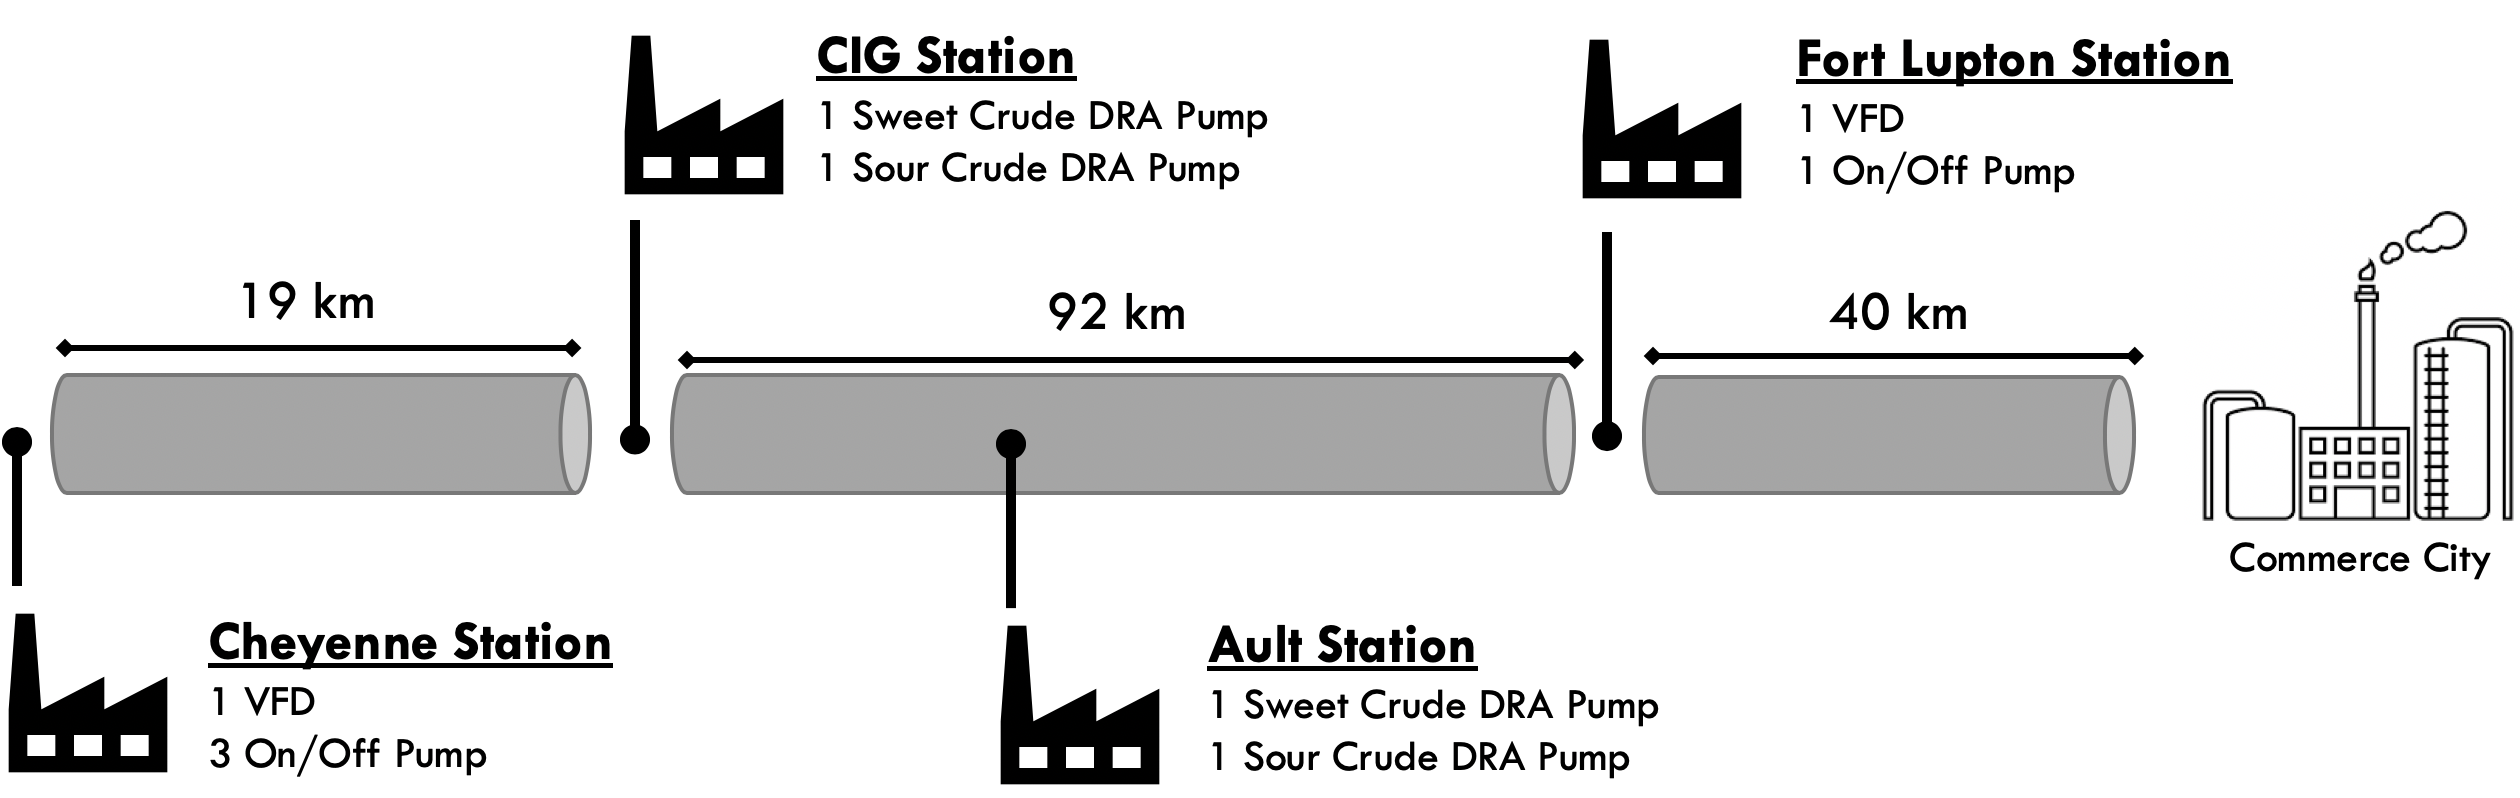
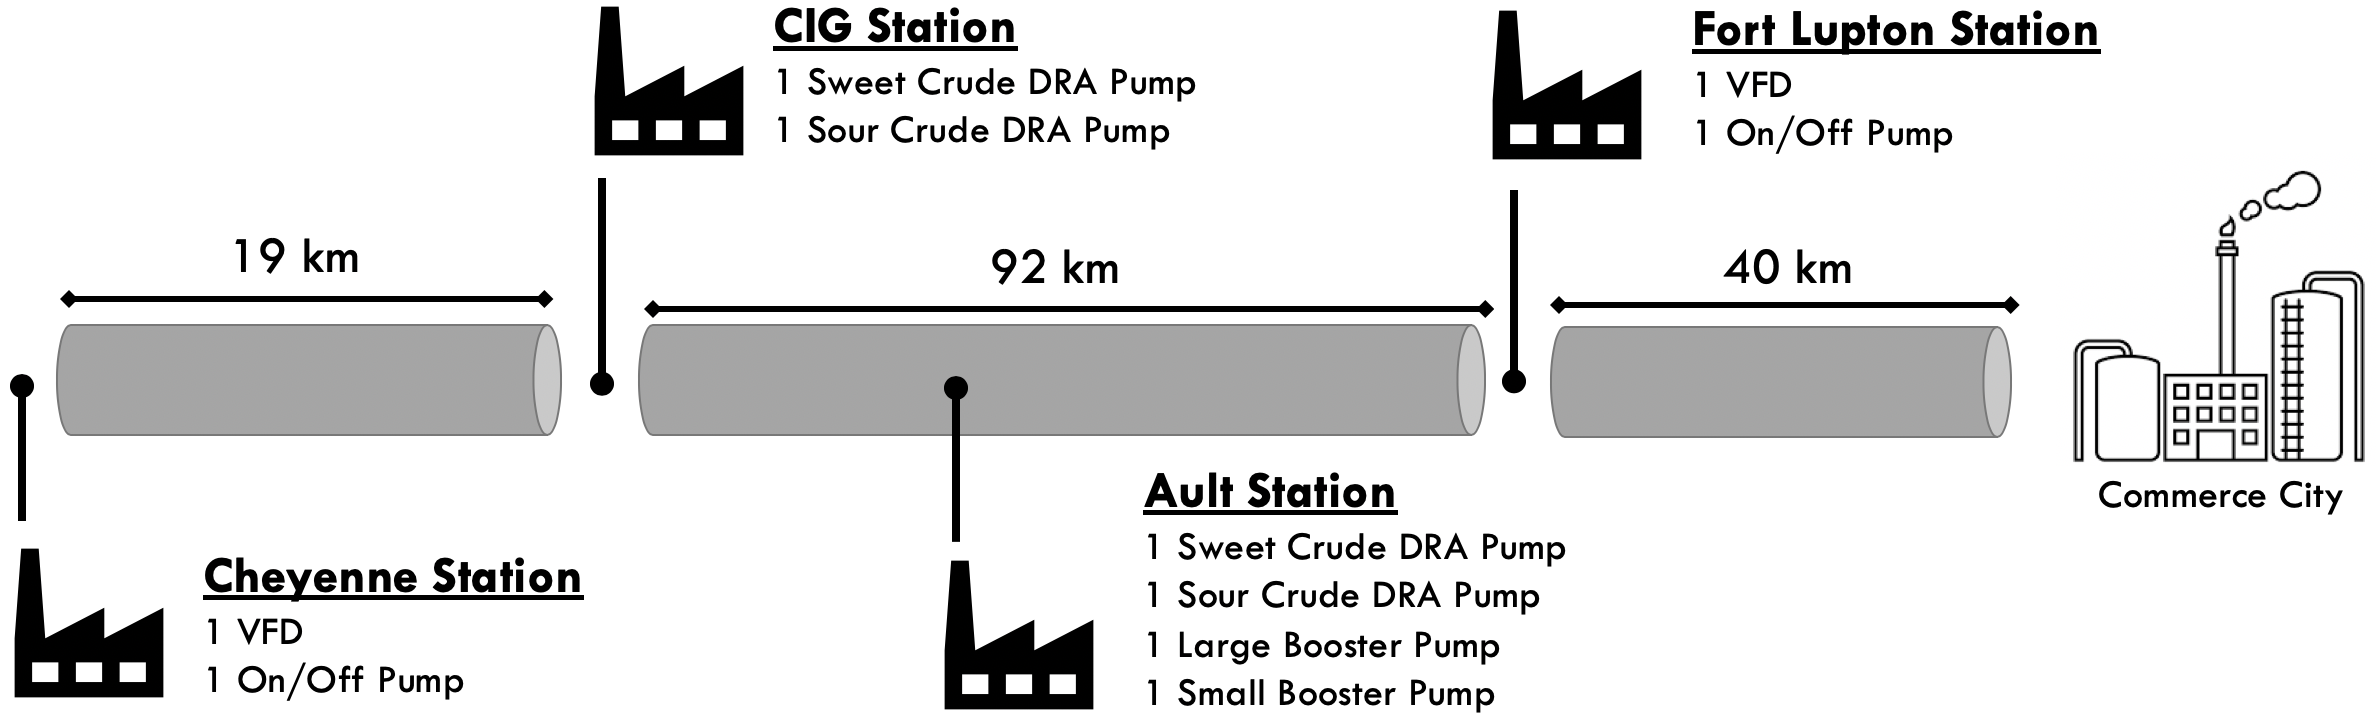
Updates from Overleaf

diff --git a/chapters/Chapter08:Suncor.tex b/chapters/Chapter08:Suncor.tex
@@ -945,8 +945,8 @@ In addition to the state ranges provided above, the recommended set points are a
         \hline
         Cheyenne VFD (Amps)                     &      100 - 340          \\
         Fort Lupton VFD (Amps)                  &      60 - 145           \\ 
-        CIG \& Ault Sweet DRA (ppm)             &      15 - 40            \\
-        CIG \& Ault Sour DRA (ppm)              &      15 - 40            \\
+        CIG \& Ault Sweet DRA (ppm)             &      20 - 40            \\
+        CIG \& Ault Sour DRA (ppm)              &      20 - 40            \\
     \end{tabular}}
     \caption{Applicable inputs of the machine learning models.}
     \label{tab:08InputConst}
@@ -983,19 +983,81 @@ MILP was used to perform steady state optimization on the linear model because t
     \begin{tabular}{ c | c }
         Binary                       &  Continuous           \\
         \hline
-        3$\times$ On/off Cheyenne Pump  &  Cheyenne \& Fort Lupton VFD            \\
-        On/off Fort Lupton Pump         &  2$\times$ Sweet \& 2$\times$ Sour DRA  \\
+        On/off Cheyenne Pump               &  Cheyenne \& Fort Lupton VFD            \\
+        2$\times$ On/off Ault Pump         &  2$\times$ Sweet \& 2$\times$ Sour DRA  \\
+        On/off Fort Lupton Pump
     \end{tabular}}
     \caption{Binary and continuous decision variables.}
     \label{tab:08binary_cont}
 \end{table}
 
 \noindent
-\textit{Constraints}
-The constraints comprised of equality and in-equality constraints.  
+\textit{Constraints} \\
+The constraints are the machine learning model, equality, and in-equality constraints.  The equality and in-equality constraints are shown in Table \ref{tab:08eq_neq_constraints}. From the data provided, the Cheyenne pump was on 95\% of the time, and at least one Ault on/off pump was always on. Therefore, constraints were incorporated to reflect this.  Additionally, constraints were used to ensure proper DRA was injected into the pipeline for the different crudes.  There were also pressure constraints on the outlet pressure of the pumps to ensure safe operations.  Before a recommendation is made to the operators, the set points are used to predict for the outlet pressures at each pump to ensure they do not exceed the maximum allowable working pressure (MAWP). Finally, the flow rate is given a range to ensure optimization feasibility. Specifying exact flow rates lead to infeasible solutions because there may not exist a combination to get an \textit{exact} flow rate.
+
+\begin{table}[h]
+    \centering
+    {\setstretch{1.5}
+    \begin{tabular}{c|c}
+         Equality Constraints              & In-equality Constraints \\
+         \hline
+         On/off Cheyenne Pump = On         & $\text{Lower bound} \leq \text{Flow rate} \leq \text{Upper bound}$ \\
+         
+         Ault Pump 1 and/or 2 = On          & $P_{Outlet}^{Chey} \leq 1480 \text{ psi}$       \\
+         
+         $API^{CIG} \geq 30: DRA_{Sweet}^{CIG}$ = On & $P_{Outlet}^{Ault} \leq 1613 \text{ psi}$ \\
+         
+         $API^{CIG} \leq 30: DRA_{Sour}^{CIG}$ = On  & $P_{Outlet}^{FL} \leq 1613 \text{ psi}$  \\
+         
+         $API^{Ault} \geq 30: DRA_{Sweet}^{Ault}$ = On & $20 \text{ ppm} \leq DRA \leq 40 \text{ ppm}$                 \\
+         
+         $API^{Ault} \leq 30: DRA_{Sour}^{Ault}$  = On  & $100 \text{ Amps} \leq VFD^{Chey} \leq 340 \text{ Amps}$   \\
+         
+         Cheyenne On/off = 28 Amps  & $60 \text{ Amps} \leq VFD^{FL} \leq 145 \text{ Amps}$  \\
+         Ault 1 Pump = 190 Amps & \\
+         Ault 2 Pump = 278 Amps & \\
+         Fort Lupton Pump = 117 & \\
+    \end{tabular}}   
+    \caption{List of equality and inequality constraints}
+    \label{tab:08eq_neq_constraints}
+\end{table}
+
+Add pressure constraint models here.
 
 \noindent
-\textit{Objective Function, Costs and Decision Variables}
+\textit{Objective Function, Costs and Decision Variables} \\
+The objective is to operate the pipeline at the desired flow rate with the minimum possible operating cost.  The optimization is given by:
+
+\begin{mini*}|s|
+    {J} {= \left[ \alpha_i \sum_i \mu_i \cdot DRA_i + \beta \sum_j \nu_j \cdot I_jV_j \right]}
+    {}{}
+    \addConstraint{y = f(x, u)}                
+    \addConstraint{\nu_{Ault1} + \nu_{Ault2} \geq 1} 
+    \addConstraint{\nu_{Chey} = 1} 
+    \addConstraint{20 \leq DRA_i \leq 40, \; i \in I} 
+    \addConstraint{\gamma_j^{min} \leq I_j \leq \gamma_j^{max}, \; j \in J}{}
+\end{mini*}
+where $\alpha$ denotes the cost of DRA per ppm, $\beta$ denotes the cost of one kWh, $mu$ denotes the on/off status of the DRA pumps, and $\nu$ denotes the on/off status of the pumps. $DRA_i$ is the DRA ppm set point of the $i^{th}$ DRA injection pump. Moreover, $V_j$ and $I_j$ are the voltage and drawn amperes corresponding to the $j^{th}$ pump. Here, $\gamma_j$ are the upper and lower bounds of the VFDs' currents and are provided in Table \ref{tab:08eq_neq_constraints}. For on/off pumps, $\gamma_j$ is fixed.
+
+The voltages of the pumps are provided in Table \ref{tab:08Voltages}.
+\begin{table}[h]
+    \centering
+    {\setstretch{1.2}
+    \begin{tabular}{c|c}
+        Pump          &  Voltage \\
+        \hline
+        $VFD^{Chey}$    &  4160    \\
+        $VFD^{FL}$      &  4160    \\
+        On/off $Pump^{Chey}$    & 480   \\
+        On/off $Pump^{Ault1}$   & 4000  \\
+        On/off $Pump^{Ault2}$   & 4000  \\
+        On/off $Pump^{FL}$      & 480   \\
+    \end{tabular}}
+    \caption{Voltages for the pumps.}
+    \label{tab:08Voltages}
+\end{table}
+
+add cost curves and conversion from amp to pressure?
 
 Optimization, constraints are pressures.  Current converted to pressure set points for VFDs and DRA ppm converted to cost as well.
 \subsection{Conceptual Software Design}

diff --git a/main.tex b/main.tex
@@ -29,6 +29,9 @@
 \usepackage{siunitx}
 \usepackage{textcomp}
 
+% Optimization
+\usepackage{optidef}
+
 \begin{document}
 
 %%%%%%%%%%%%%%%%%%%%%%% Begin Title Page %%%%%%%%%%%%%%%%%%%%%%%%%%
